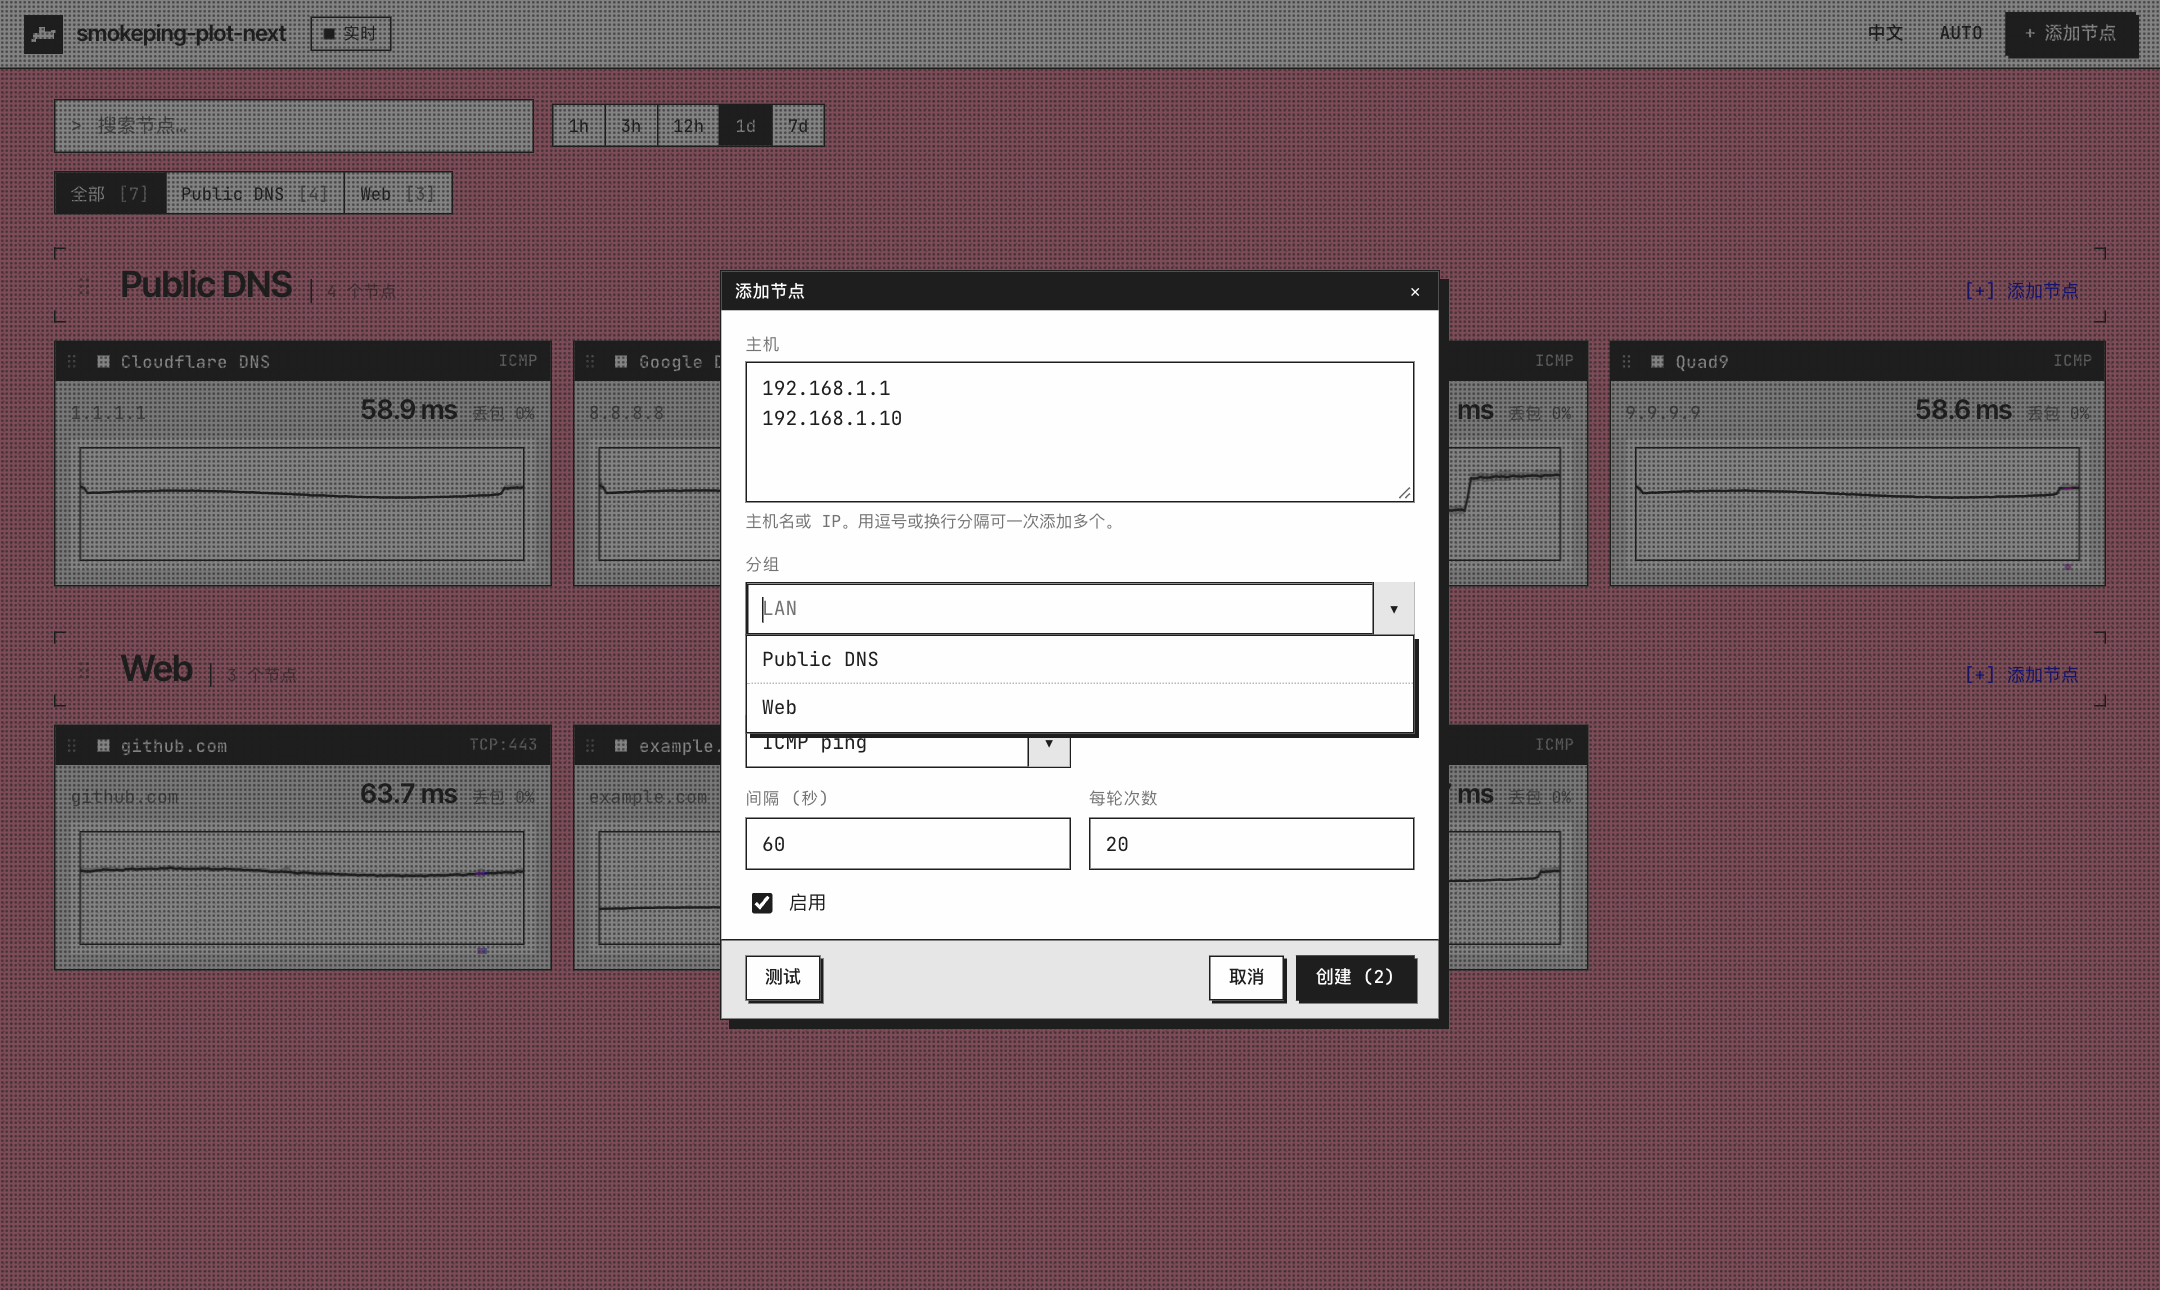
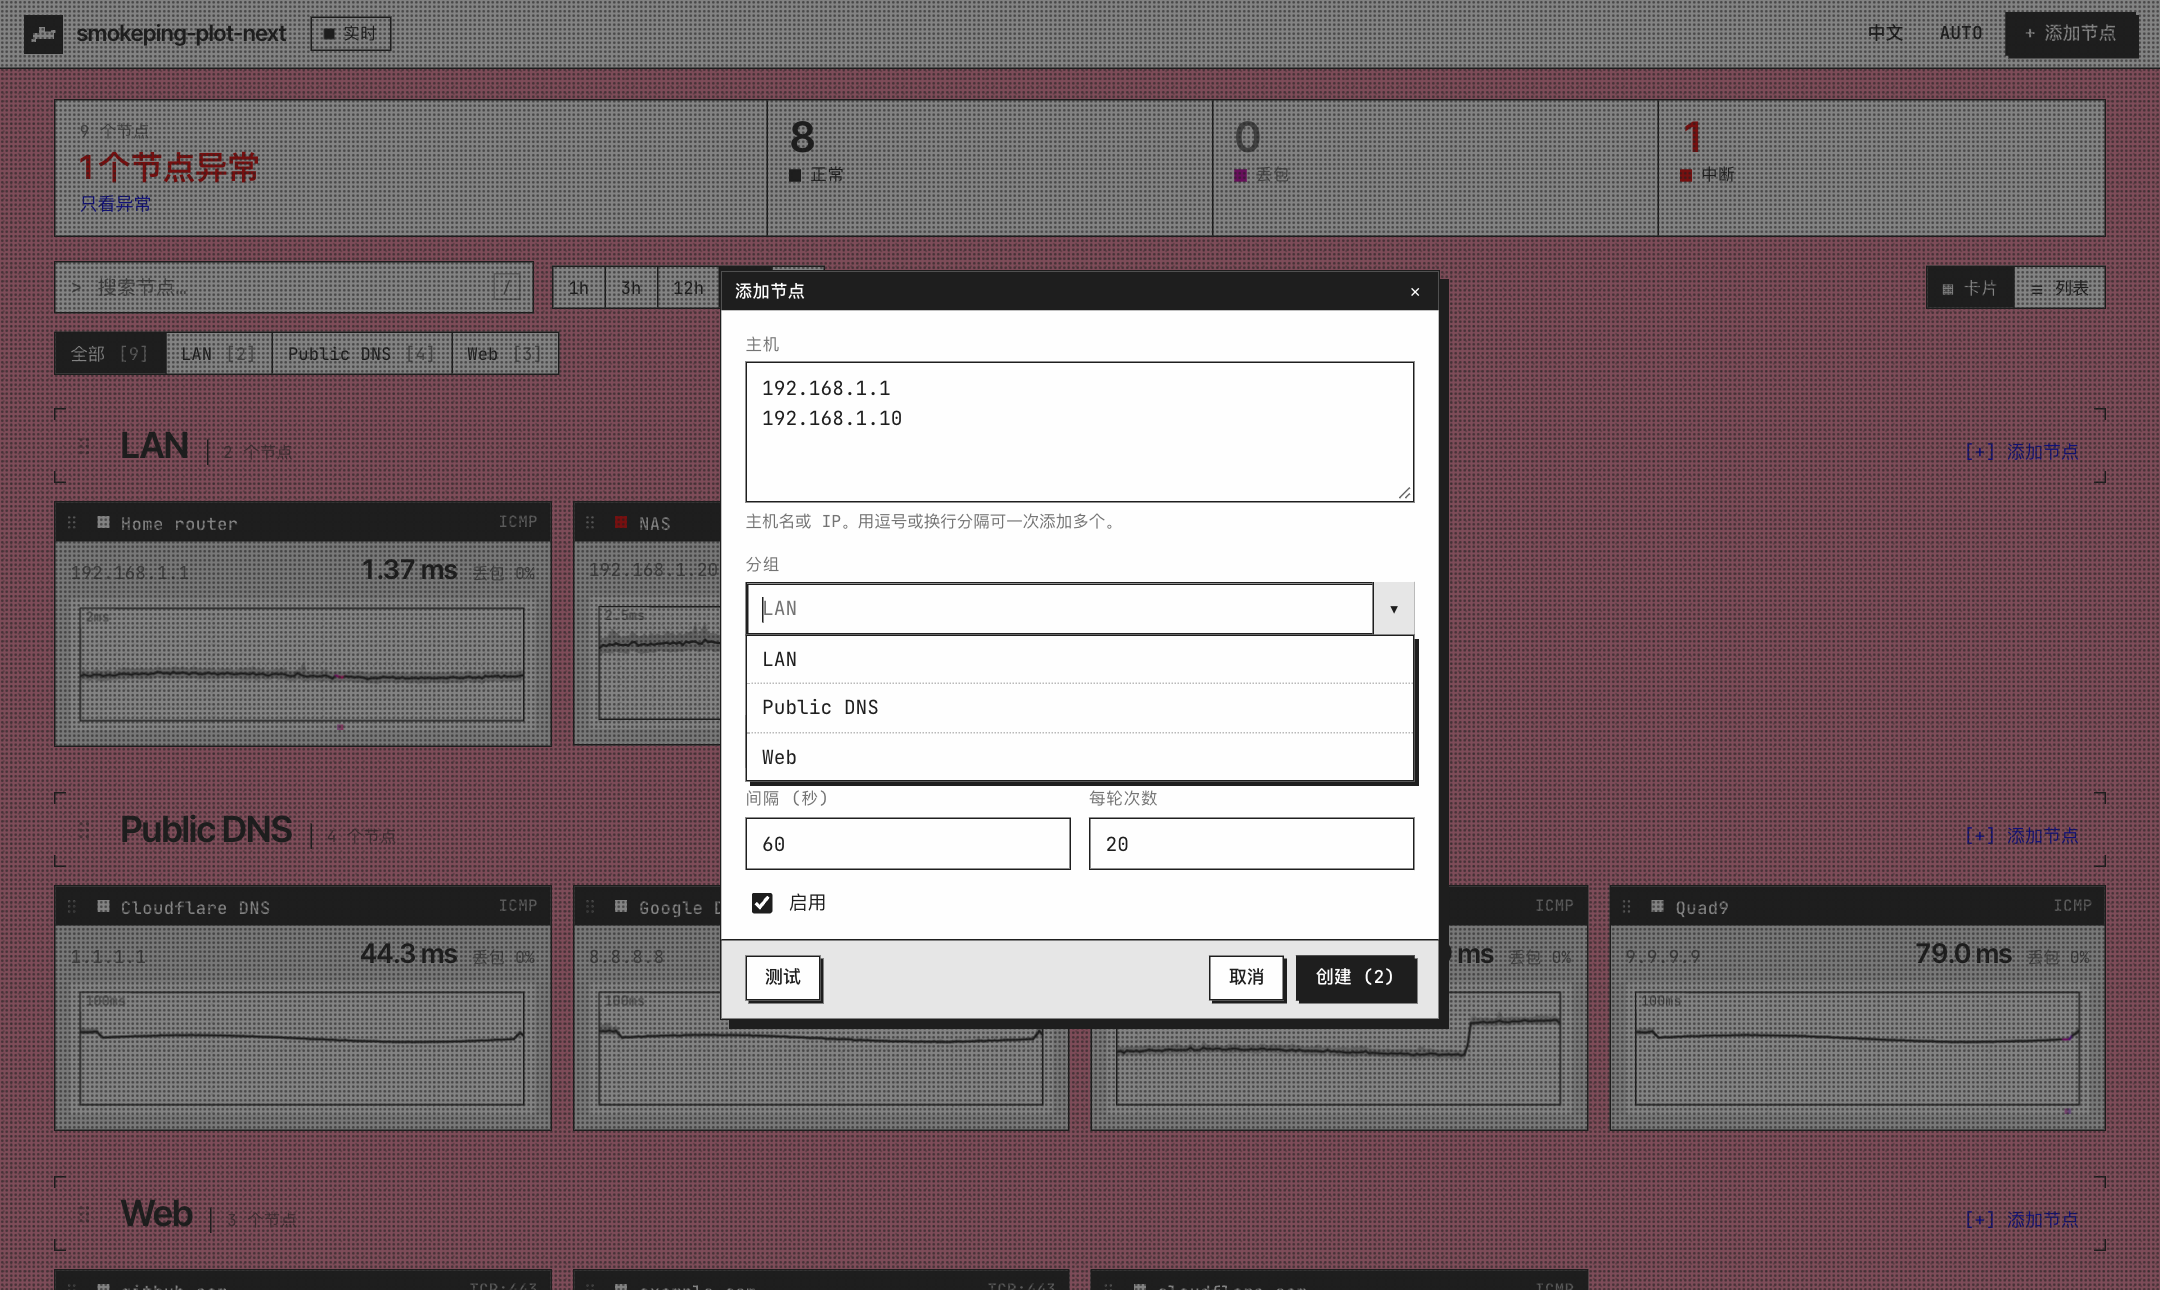
README: refresh screenshots and document the UX additions
Screenshots now show the status bar, down duration and list view; LAN
examples use 192.168.1.x placeholder addresses.

diff --git a/README.md b/README.md
@@ -15,7 +15,7 @@ REST + SSE), React web UI with smoke graphs, responsive for desktop and mobile.*
 |---|---|
 | ![overview](docs/screenshots/overview-light.png) | ![detail](docs/screenshots/detail-dark.png) |
 
-| 添加节点 | 手机端 |
+| 添加节点 | 手机端（列表视图） |
 |---|---|
 | ![add target](docs/screenshots/add-target.png) | <img src="docs/screenshots/overview-mobile.png" width="260" alt="mobile"> |
 
@@ -25,6 +25,7 @@ REST + SSE), React web UI with smoke graphs, responsive for desktop and mobile.*
 - **烟雾图**：min–max 与 25–75% 分位烟雾带、按丢包率着色的中位数线、底部丢包条；对数坐标、拖拽缩放、hover/触摸提示
 - **多分辨率归档**：原始样本保留 30 天，小时级汇总保留 2 年（类似 RRD 的多级 RRA），长时间范围自动切换
 - **实时更新**：SSE 推送，新样本秒级出现在页面上
+- **状态总览**：顶部显示正常 / 丢包 / 中断 / 无数据的节点数，点击即筛选；中断节点显示已中断多久，长时间没有新数据的节点标记为"无数据"；浏览器标签页标题和图标随整体状态变化
 - **节点管理**：Web UI 添加 / 编辑 / 删除 / 暂停节点，支持分组、批量添加、添加前测试连通性
 - **拖拽排序**：拖卡片标题栏的 ⠿ 手柄在组内排序或拖进其他分组；拖分组标题旁的 ⠿ 调整分组先后；手机上长按手柄再拖。顺序保存在服务端，所有设备一致
 - **响应式 UI**：桌面卡片网格，手机单列 + 底部抽屉表单；深色 / 浅色主题跟随系统；中英文界面
@@ -148,8 +149,8 @@ Web UI 没有内置登录；局域网之外暴露请开启 `AUTH_USER`/`AUTH_PAS
 
 ## 界面
 
-- **总览**：按分组显示所有节点，每张卡片有当前中位数 / 丢包率与最近 1h–7d 的迷你烟雾图；支持搜索与分组筛选（筛选时暂停拖拽）
-- **节点详情**：1h ～ 1y 时间范围、拖拽缩放、对数坐标、区间统计（平均中位数、min/max、丢包、可用率）
+- **总览**：按分组显示所有节点，可切换卡片 / 列表两种布局；每个节点有当前中位数 / 丢包率与最近 1h–7d 的迷你烟雾图；支持搜索、分组与状态筛选（筛选时暂停拖拽）。快捷键：`/` 搜索，`Esc` 清除筛选
+- **节点详情**：1h ～ 1y 时间范围、拖拽缩放、对数坐标、区间统计（中位数均值、抖动、min/max、丢包、可用率）；`‹ ›` 或键盘 ← → 在节点间切换
 - **添加节点**：主机栏可粘贴多行 / 逗号分隔的地址一次批量添加；「测试」按钮即时探测 5 次
 
 ## API
